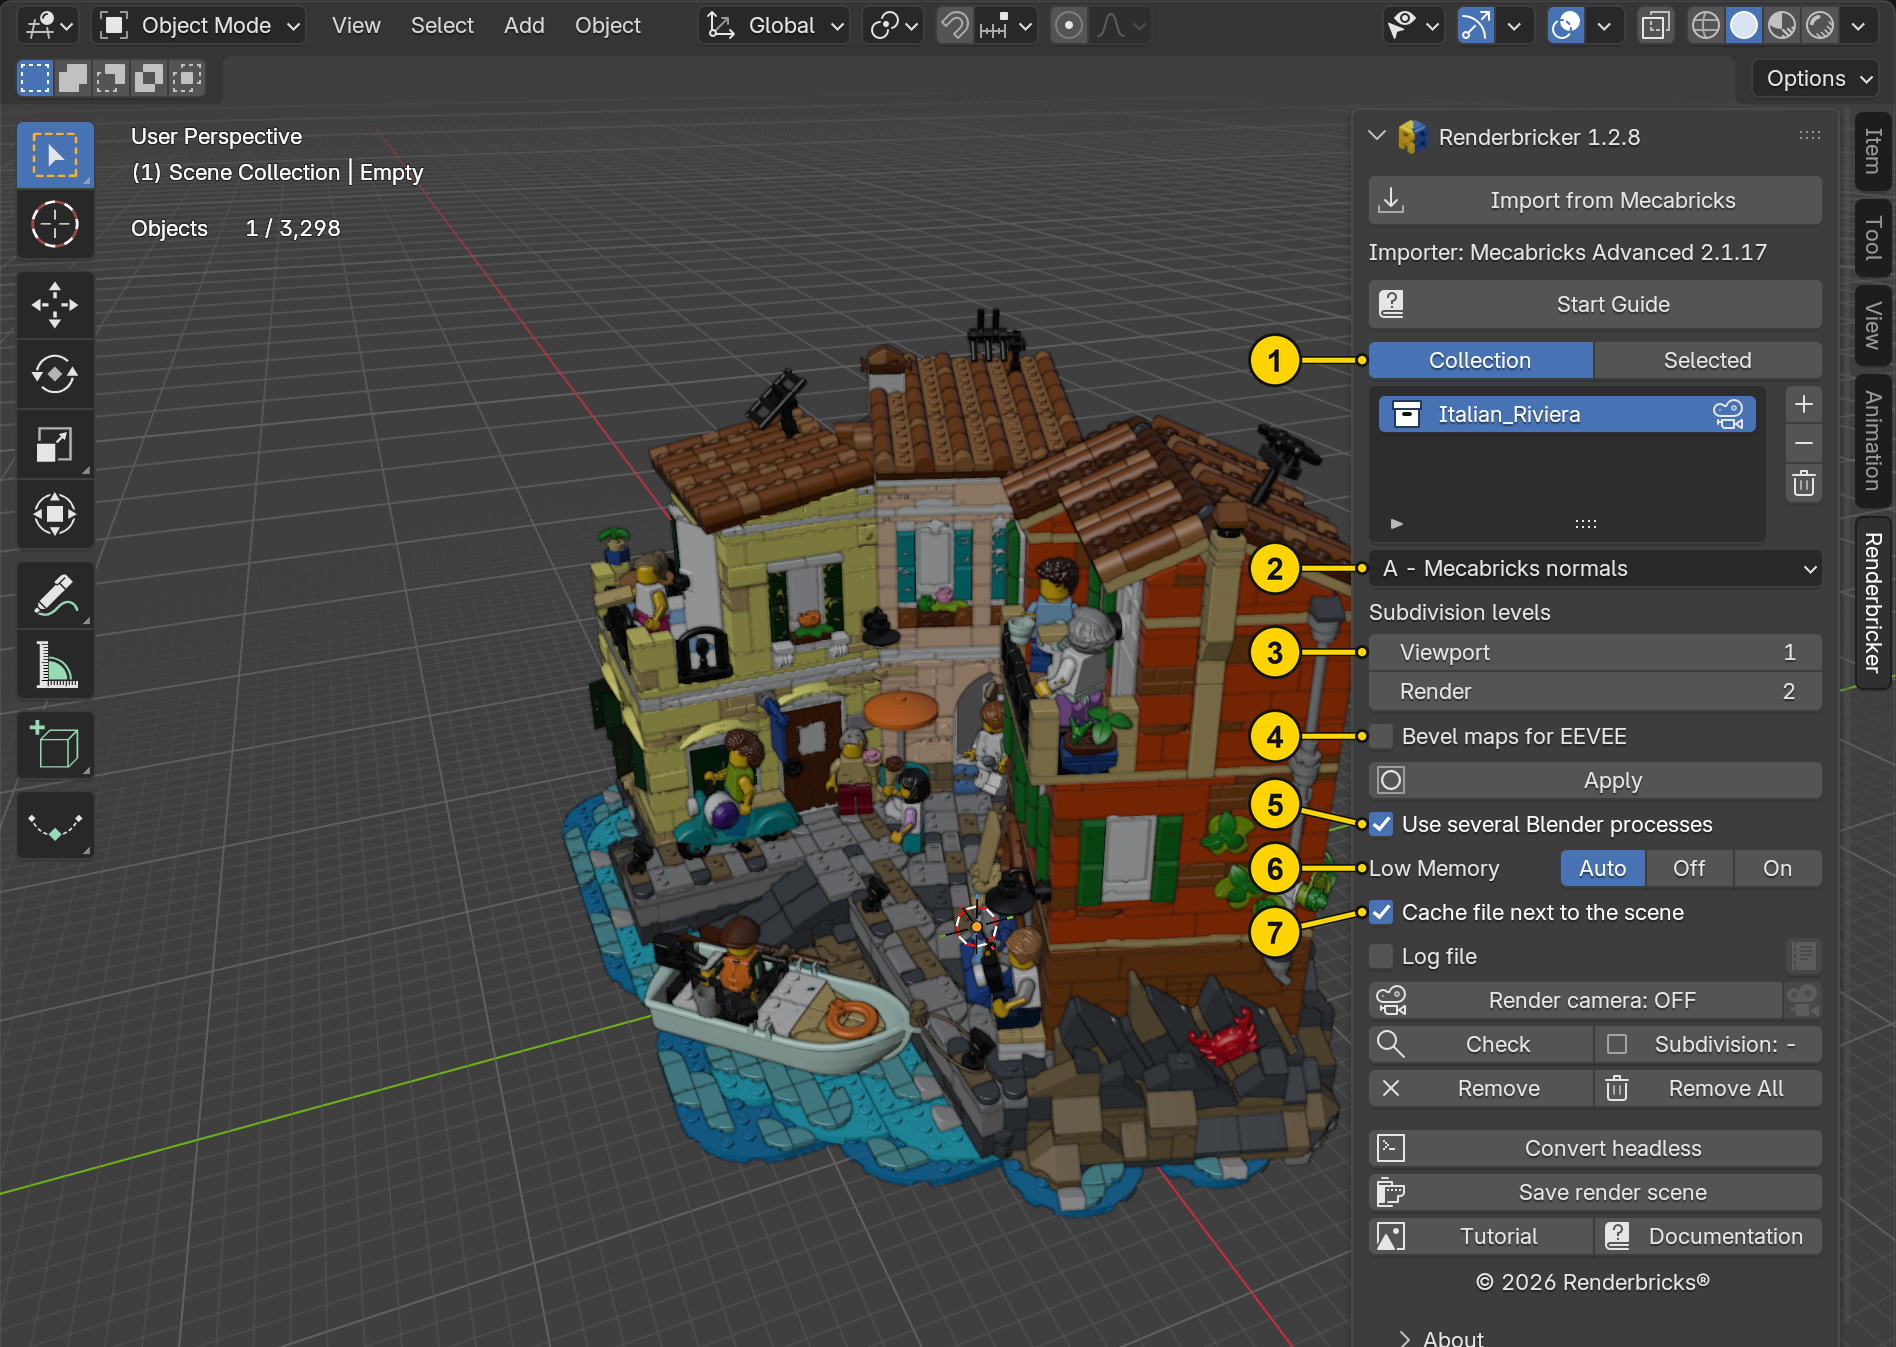
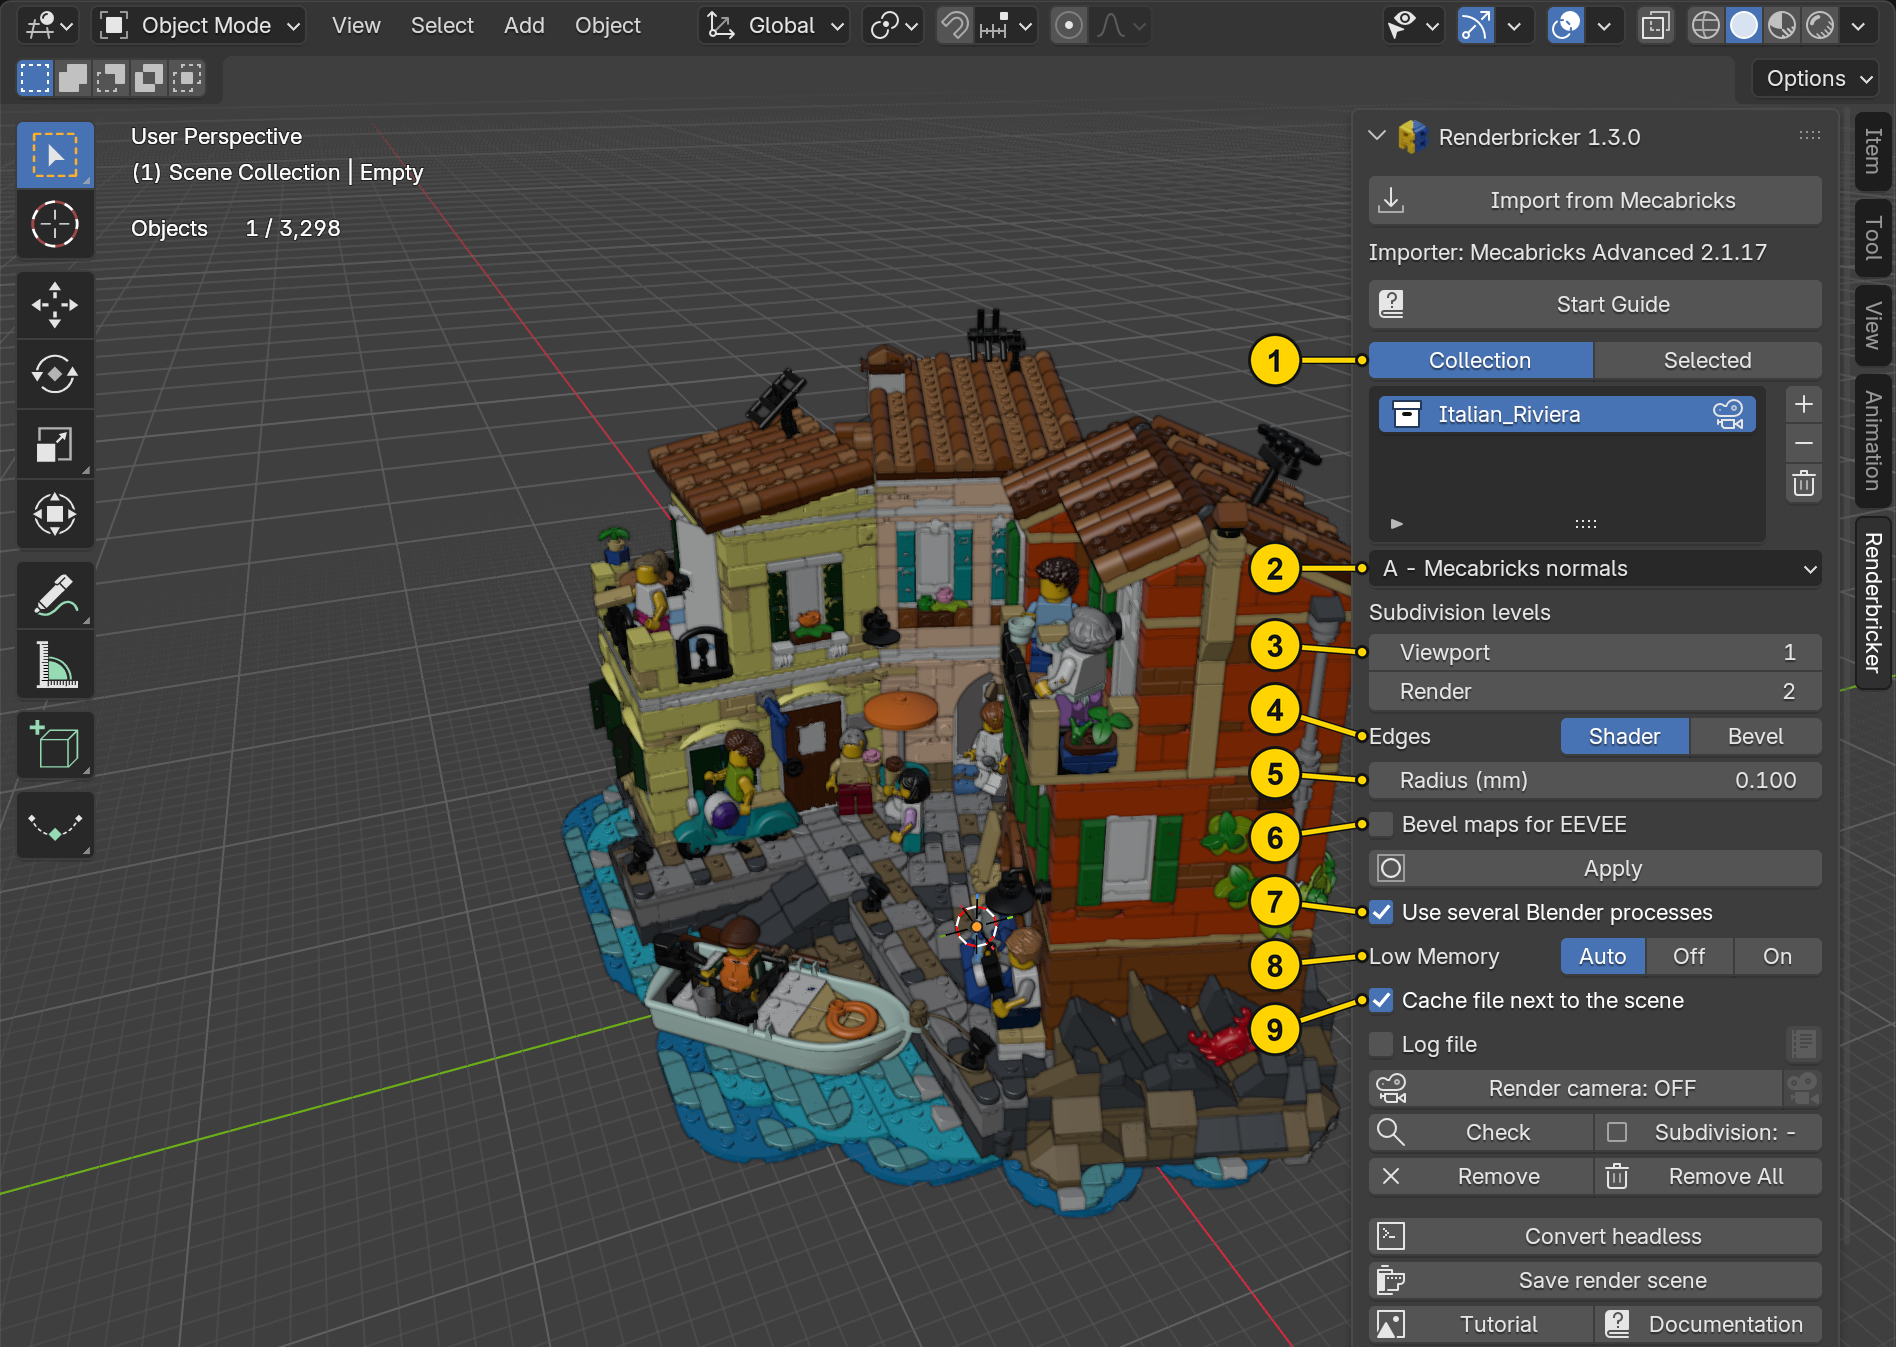
Tutorial 1.3.0: the settings with Edges and Radius (step 2 re-shot with Blender 5.2.3)

Changed region(s): [[0.6535, 0.4365, 0.9647, 1.0], [0.9335, 0.7171, 0.9647, 0.7483]]

diff --git a/docs/TUTORIAL.md b/docs/TUTORIAL.md
@@ -123,17 +123,19 @@ Renderbricker is an independent add-on, not an official Mecabricks pro
 **What it is for:** knowing what the defaults do. They suit most scenes – for the Italian Riviera
 all of them stay as they are.
 
-![The panel with its default settings (1–7)](images/tutorial/T03_settings.webp)
+![The panel with its default settings (1–9)](images/tutorial/T03_settings.webp)
 
 | | Setting | Default | In short |
 |---|---|---|---|
 | 1 | Collection / Selected | **Collection** | which parts: the ones in the collections of the list – the imported model is in it already – or the selected ones |
 | 2 | Variant | **A – Mecabricks normals** | keeps the shading of the import; *B* gives crisper logos on the studs |
 | 3 | Levels | **Viewport 1 / Render 2** | smooth enough to work with, full quality in the render |
-| 4 | Bevel maps for EEVEE | **off** | clean round rims in EEVEE renders – see [Going further](#bevel-maps-for-eevee) |
-| 5 | Several Blender processes | **on** | larger scenes are converted by several Blenders at once |
-| 6 | Low Memory | **Auto** | only for very large parts or little memory – see [Going further](#low-memory) |
-| 7 | Cache file | **on** | the copies go into a file of their own, the scene file stays small |
+| 4 | Edges | **Shader** | the importer's material rounds the sharp edges; *Bevel* gives the smooth copies real rounded edges – see [Going further](#edges-shader-or-bevel) |
+| 5 | Radius (mm) | **0.1** | how far the rounding of an edge reaches, for both *Shader* and *Bevel* |
+| 6 | Bevel maps for EEVEE | **off** | clean round rims in EEVEE renders – see [Going further](#bevel-maps-for-eevee) |
+| 7 | Several Blender processes | **on** | larger scenes are converted by several Blenders at once |
+| 8 | Low Memory | **Auto** | only for very large parts or little memory – see [Going further](#low-memory) |
+| 9 | Cache file | **on** | the copies go into a file of their own, the scene file stays small |
 
 Every mesh in the listed collections is treated as a Mecabricks part: Renderbricker does not tell LEGO parts
 from other meshes. Keep your own models out of these collections.
@@ -395,7 +397,7 @@ Parts outside the choice stay as imported; Apply converts only what is not up 
 
 ### Edges: Shader or Bevel
 
-The importer rounds the sharp edges of a part in its material: with a Bevel node in Cycles and a baked map in EEVEE. That is **Edges: Shader**, the default. With **Edges: Bevel**, Apply gives these edges a real bevel in the smooth copies: the outline of the part is round too, and the edges look the same in Cycles and EEVEE, also on parts without a map. **Segments** sets its facets, 1 to 3, start 2 (3 rounds the outline most). **Radius (mm)** sets the rounding for both, in millimetres of the real part: 0.08 to 0.2, start 0.1 – finer than the importer shows by itself (about 0.2). Studs, logos and the chamfers Mecabricks modelled keep their own rounding. Changing the switch makes Apply convert the parts again; a bevelled copy has about a fifth more faces.
+The importer rounds the sharp edges of a part in its material: with a Bevel node in Cycles and a baked map in EEVEE. That is **Edges: Shader**, the default. With **Edges: Bevel**, Apply gives these edges a real bevel in the smooth copies: the outline of the part is round too, and the edges look the same in Cycles and EEVEE, also on parts without a map. **Segments** sets its facets, 1 to 3, start 2 (3 rounds the outline most). **Radius (mm)** sets the rounding for both, in millimetres of the real part: 0.08 to 0.2, start 0.1 – finer than the importer shows by itself (about 0.2). Studs, logos and the chamfers Mecabricks modelled keep their own rounding. Changing the switch makes Apply convert the parts again; a bevelled copy has about a fifth more faces.
 
 ### Bevel maps for EEVEE
 

diff --git a/CLAUDE.md b/CLAUDE.md
@@ -45,6 +45,6 @@ _dev/                      private test repo Renderbricker-CI (own git): platfor
 - Commits here as `Renderbricks <330434884+Renderbricks@users.noreply.github.com>`.
 - Name and legal texts (maintainer 2026-09-28): the add-on is "Renderbricker" (package `renderbricker`, operators keep the `mecsub.` prefix and the scene property `mecsub`, so converted scenes keep their settings); the panel shows the copyright line, the About sub-panel the trademark note (Renderbricks® is a registered word mark in Germany – ® only with that note), links to renderbricks.com, Facebook, YouTube and the LEGO disclaimer verbatim. The README links www.mecabricks.com.
 - Render camera setup scene: `addon/renderbricker/setup/renderbricks_setup.blend` (90 KB: settings, world, camera only) is made from the maintainer's render scene with `blender -b --factory-startup --python scripts/core/make_setup_scene.py -- <Render.blend>` (source 2026-09-28: `06_User/Render.blend`); never copy a full render scene there.
-- Screenshots, tutorial and documentation images are made with Blender 5.2.2 (the maintainer provides the reference scene in 5.2.2); compatibility stays 4.5 LTS or newer.
+- Screenshots, tutorial and documentation images are made with the latest Blender 5.2 LTS, since 2026-10-28 5.2.3 (the maintainer provides the reference scene in 5.2.2; maintainer 2026-10-28: 5.2.3); compatibility stays 4.5 LTS or newer.
 - Documentation layout (maintainer 2026-09-28): every picture is as wide as GitHub's text column – 948 CSS px, made at 2x = 1896 px (Blender UI scale 2); numbered markers are yellow and anti-aliased. Running text is justified with automatic hyphenation: after every edit of a doc run `python scripts/docs/typeset.py <doc.md>` (needs `pip install pyphen`; wraps the doc in `<div align="justify">` and sets soft hyphens, since GitHub strips CSS; `--strip` takes both out). Long unbreakable code (file names) goes into a code block, not into a justified line. `<…>` in text must be escaped or it vanishes as an HTML tag.
 - The rules version (`RULES_VERSION`, docs/RULES.md) is internal: not in the panel, the start script or the CHANGELOG (maintainer 2026-09-28); journals and results metadata keep it.
